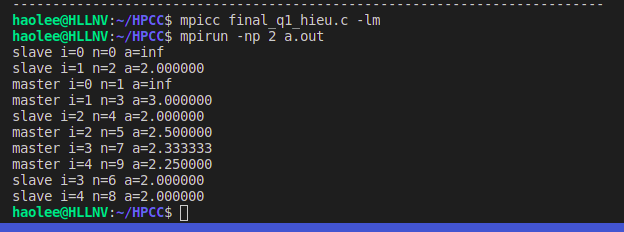
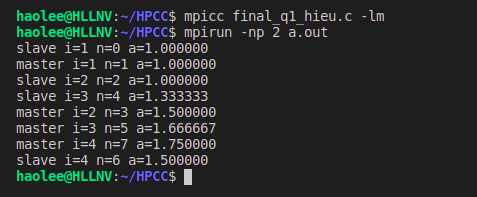
update more

Changed region(s): [[0.0, 0.0, 1.0, 1.0], [0.7631, 0.0609, 0.8218, 0.1218]]

diff --git a/final_q1_hieu.c b/final_q1_hieu.c
@@ -8,7 +8,7 @@ void master_code()
     int n = 0, i;
     double a;
 
-    for (i = 0; i < N; i++)
+    for (i = 1; i < N; i++)
     {
         a = (n + 1.0) / i;
         MPI_Send(&n, 1, MPI_INT, 1, 1, MPI_COMM_WORLD);
@@ -24,7 +24,7 @@ void slave_code()
     int n=0, i;
     double a;
 
-    for (i = 0; i < N; i++)
+    for (i = 1; i < N; i++)
     {
         a = (n + 1.0) / i;
 
